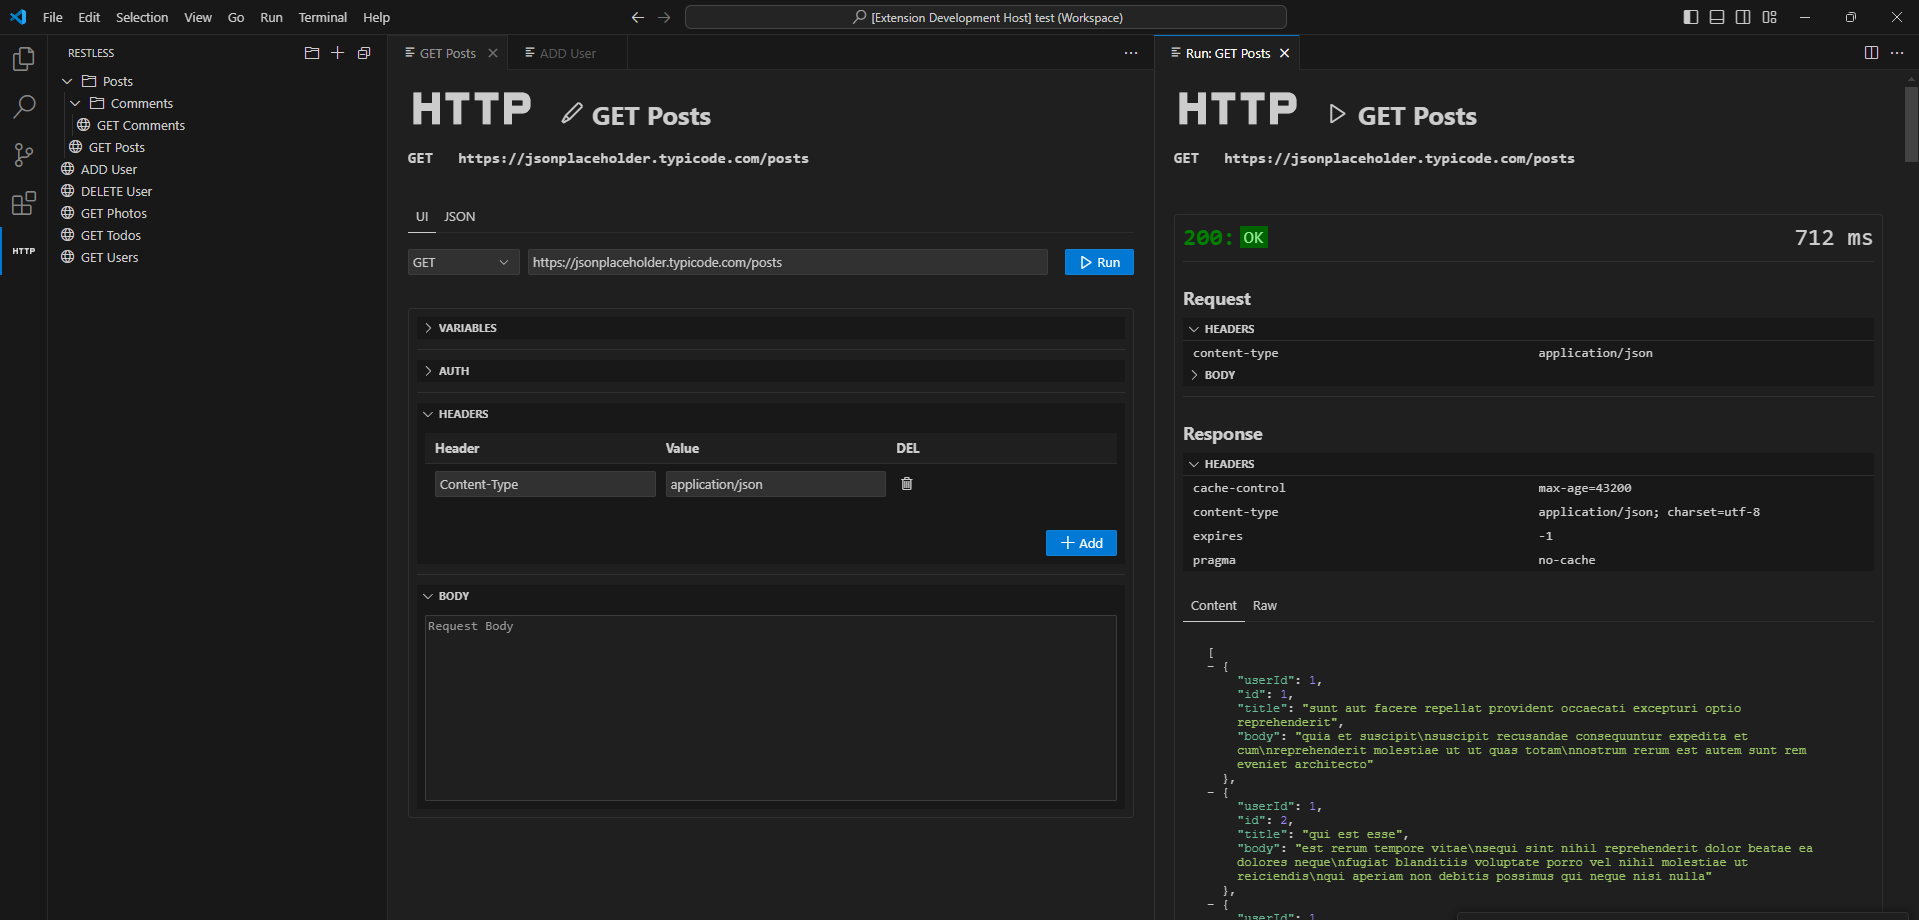
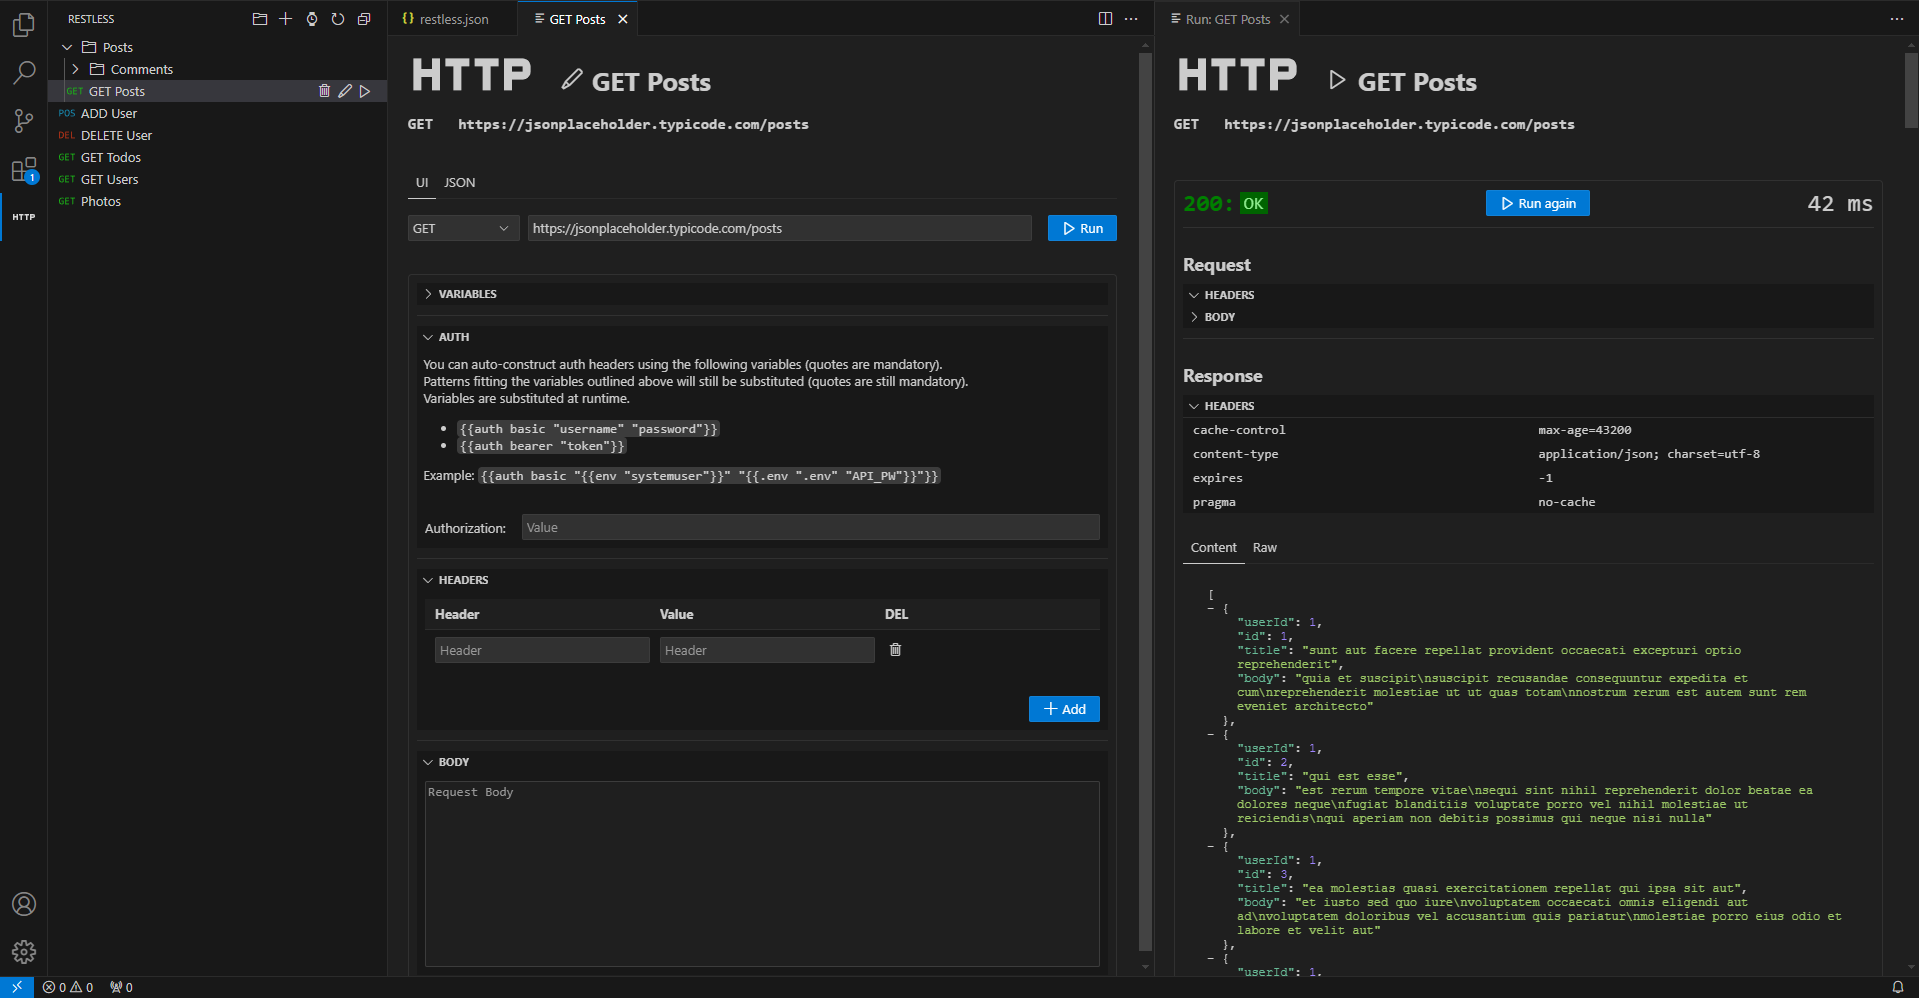
feat: run-again button in results view

diff --git a/src/CallRun.html b/src/CallRun.html
@@ -40,13 +40,16 @@
         display: flex;
         flex-direction: row;
         gap: 1rem;
+        justify-content: space-between;
         align-items: center;
         font-size: 1.5rem;
         font-family: var(--vscode-editor-font-family);
       }
+      #status-container * {
+        flex-grow: 0;
+        flex-shrink: 0;
+      }
       #status-container #status {
-        flex-grow: 1;
-        flex-shrink: 1;
         display: flex;
         flex-direction: row;
         align-items: center;
@@ -78,10 +81,6 @@
       #status-container #status.error>span {
         color: lightcoral;
         background: darkred;
-      }
-      #status-container #timeSpan {
-        flex-grow: 0;
-        flex-shrink: 0;
       }
 
       #container-results {
@@ -147,17 +146,25 @@
 
         const setCommonParts = (status, message) => {
           clearInterval(timekeeper);
+
           const statusContainer = document.createElement('div');
-          statusContainer.id="status-container";
+          statusContainer.id = "status-container";
           const statusSpan = document.createElement('span');
           const severity = status === 'Error' ? 'error' : status < 300 ? 'ok' : status < 400 ? 'warning' : 'error';
-          statusSpan.id="status";
+          statusSpan.id = "status";
           statusSpan.classList.add(severity);
           statusSpan.innerHTML = `${status}: <span>${message ?? statusCodes[status]?.message}</span>`;
           statusContainer.appendChild(statusSpan);
 
+          const button_run = document.createElement('vscode-button');
+          button_run.id = 'button-run';
+          button_run.setAttribute('icon', 'run');
+          button_run.innerText = 'Run again';
+          button_run.onclick = () => run();
+          statusContainer.appendChild(button_run);
+
           const timeSpan = document.createElement('span');
-          timeSpan.id="timeSpan";
+          timeSpan.id = "timeSpan";
           const seconds = ((new Date() - start) / 1000);
           timeSpan.innerHTML = seconds > 10 ? `${seconds.toFixed(1)} s` : `${(seconds * 1000).toFixed(0)} ms`;
           statusContainer.appendChild(timeSpan);
